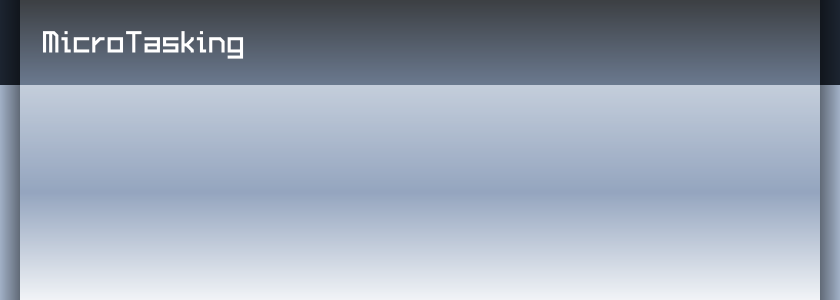
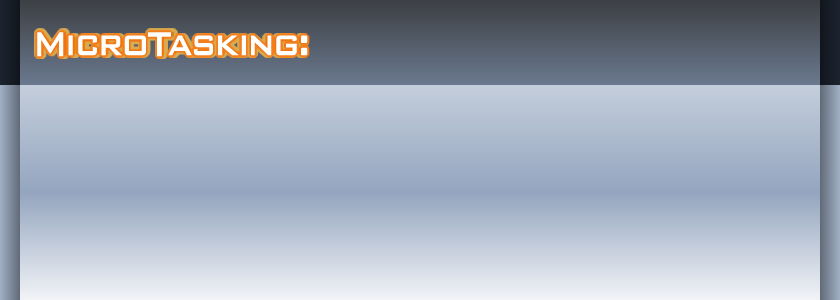
theme cleanup, FAQ, about, quote fixup

Changed region(s): [[0.031, 0.09, 0.3714, 0.21]]

diff --git a/templates/faq.html b/templates/faq.html
@@ -1,7 +1,7 @@
 <div class="staticbox">
 
 <h3 id="definition">What are Microtasks?</h3>
-<p>Any short (less than 1 hour) task that can be easily defined and delegated to someone else</p>
+<p>Any short (between 1 to 4 hour) task that can be easily defined and delegated to someone else</p>
 
 <h3 id="why">Why?</h3>
 <p>Because you&apos;re busy.</p>
@@ -16,7 +16,7 @@
 
 <h3 id="ideas">What kinds of tasks can I delegate?</h3>
 <p>
-  Anything that can be done remotely in under an hour with more than 24 hours notice.
+  Anything that can be done remotely in 1 - 4 hours with more than 72 hours notice.
   Yes really, anything. Here are some examples:
   <ul>
     <li>List some information about digital projectors under $500 in a spreadsheet organized by price, name, and luminosity</li>
@@ -33,7 +33,7 @@
   We hand off the task to the members of our staff most qualified to do the job.
   If your task requires computer experience, you will get an IT graduate. The
   same pattern applies for anything from spot-checking documents, to making phone calls
-  on your behalf, <em>et cetera</em>. Anything that requires special knowledge will
+  on your behalf, <em>etc</em>. Anything that requires special knowledge will
   be given to a qualified Task Manager.
 </p>
 
@@ -53,10 +53,10 @@
   information about you.
 </p>
 
-<h3 id="time">What if my microtask takes more than one hour?</h3>
+<h3 id="time">What if my microtask takes more than four hours?</h3>
 <p>
-  At this time we focus exclusively on tasks that take an hour or less.  If your task would obviously take longer,
-  we will alert you by email before beginning any work and you will not be charged.
+  At this time we focus exclusively on tasks that take up to four hours. If we believe your task will
+  take longer, we will alert you by email before beginning any work and you will not be charged.
 </p>
 <p>
   Having said that, you might be surprised what can be accomplished in one hour's time by our <a href="#taskers">dedicated staff</a>.

diff --git a/templates/main.html b/templates/main.html
@@ -25,7 +25,7 @@ Additional amount: {{ currency }}
 <span class="small"><a href="/additional" title="What is the additional amount?">?</a></span>
 </p>
 {% if additional_error %}<p class="validation-error"><span>* {{ additional_error }} {{ currency }}{{ max_additional|floatformat:2 }}</span></p>{% endif %}
-<p class="checkout"><input class="button" type="submit" value="Checkout" /></p>
+<p class="checkout"><input class="button" type="submit" name="checkout" value="Do My Work" /></p>
 </fieldset>
 </form>
 </div>
@@ -58,19 +58,19 @@ eliminate your mundane activities.</p></li>
 <div class="box firstquote">
 <div class="top"><div class="right"></div><div class="left"></div></div>
 <div class="middle">
-<p>Doing it well now is much better than doing it perfectly later.</p>
+<p>Doing it well <strong>now</strong> is much better than doing it perfectly <strong>later</strong>.</p>
 </div>
 <div class="bottom"><div class="right"></div><div class="left"></div></div>
-<p>-- Seth Godin</p>
+<span class="attribute"><a href="http://sethgodin.typepad.com/">Seth Godin</a>, Author, Blogger</a></span>
 </div>
 
 <div class="box secondquote">
 <div class="top"><div class="right"></div><div class="left"></div></div>
 <div class="middle">
-<p>If you can imagine it, you can delegate it.</p>
+<p>If you can <strong>imagine it</strong>, you can <strong>delegate it</strong>.</p>
 </div>
 <div class="bottom"><div class="right"></div><div class="left"></div></div>
-<p>-- Tim Ferriss</p>
+<span class="attribute"><a href="http://www.timferriss.com/">Tim Ferriss</a>, Author, <a href="http://www.fourhourworkweek.com/">The 4-Hour Work Week</a></span>
 </div>
 
 </div>

diff --git a/templates/outer.html b/templates/outer.html
@@ -6,7 +6,7 @@
 <link rel="shortcut icon" href="/static/images/{{ favicon }}" />
 <link rel="stylesheet" href="/static/base.css" type="text/css" media="screen" />
 <link rel="stylesheet" href="/static/{{ stylesheet }}.css" type="text/css" media="screen" />
-<title>Microtasking - {{ tagline }}</title>
+<title>Microtasking: {{ tagline }}</title>
 </head>
 <body>
 <div class="outer-wrapper">
@@ -19,10 +19,10 @@
 <p class="navbar">
   <a href="/{{ promo }}"><span>Home</span></a> |
   <a href="/how"><span>How does it work?</span></a> | 
-  <a href="http://microtasking.blogspot.com/2009/07/screencast-1.html"><span>Video</span></a>
+  <a href="http://blog.microtasking.net/2009/07/screencast-1.html"><span>Video</span></a>
 </p>
 <p class="linkbar">
-  <a href="/faq"><span>FAQ</span></a> | <a href="http://microtasking.blogspot.com/"><span>Blog</span></a> |
+  <a href="/faq"><span>FAQ</span></a> | <a href="http://blog.microtasking.net/"><span>Blog</span></a> |
   <a href="https://twitter.com/microtasking"><span>Twitter</span></a> | <a href="/about"><span>About</span></a>
 </p>
 <div class="footer">

diff --git a/templates/about.html b/templates/about.html
@@ -2,10 +2,9 @@
 
 <h3 id="definition">What is Microtasking?</h3>
 <p>
-	Microtasking (the concept) is the idea that you have better things to do with your 
-	time than every little task which comes along.  It is the process of sourcing out
-	small, well defined tasks and having them done remotely by someone else for a
-	resonable fee.
+	Microtasking (the concept) is the idea that your time is best spent on the
+	creative tasks which only you can do. The small, well definable task should
+	outsourced to a dedicated staff, allowing you to make the most of your time.
 </p>
 <p>
 	Microtasking<sup>sm</sup> (the company) is dedicated to facilitating the
@@ -21,4 +20,10 @@
 	More information about how microtasking works can be found in our <a href="/faq">FAQ</a>.
 </p>
 
+<h3 id="who">Who are you?</h3>
+<p>
+  The core MicroTasking team resides in the United States, in Boston and Indianapolis -
+  but we are staffed by the best and brightest world-wide. The Internet has no borders,
+  and neither do we.
+</p>
 </div>

diff --git a/static/standard.css b/static/standard.css
@@ -166,6 +166,8 @@ body {
 	position: relative;
 	clear: both;
 	height: 150px;
+	border-top:3px solid #C5CFDD;
+	margin:-10px;
 }
 .quotebox .box {
 	margin-right: 20px;
@@ -175,9 +177,29 @@ body {
 .quotebox p {
 	padding-left: 40px;
 	margin: 0;
+	font-style:italic;
+}
+.quotebox .middle {
+	background:white url(/static/images/startquote.png) no-repeat 0px 0px;
 }
 .quotebox .middle p {
 	padding: 0;
+	padding-left: 30px;
+	background:url(/static/images/endquote.png) no-repeat bottom right;
+}
+.quotebox span.attribute {
+  color:#455772;
+  display:block;
+  font-size:0.8em;
+  padding-left: 40px;
+}
+.quotebox span.attribute a {
+  color:#455772;
+  text-decoration:none;
+  border-bottom:1px dashed #657792;
+}
+.quotebox span.attribute a:hover {
+  
 }
 
 /* positioning quotes */
